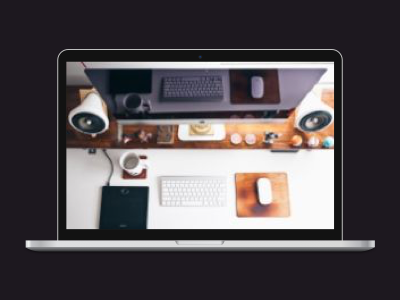
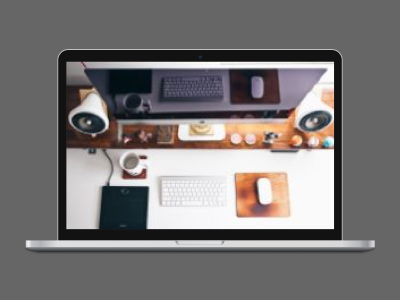
Updated My Work Colors

diff --git a/css/main.css b/css/main.css
@@ -255,7 +255,7 @@ header .intro-text .skills {
 	top: 0;
 	left: 0;
 	padding: 20px;
-	background: #4a4a4a;
+	background: #171513;
 	color: #FF5335;
 }
 
